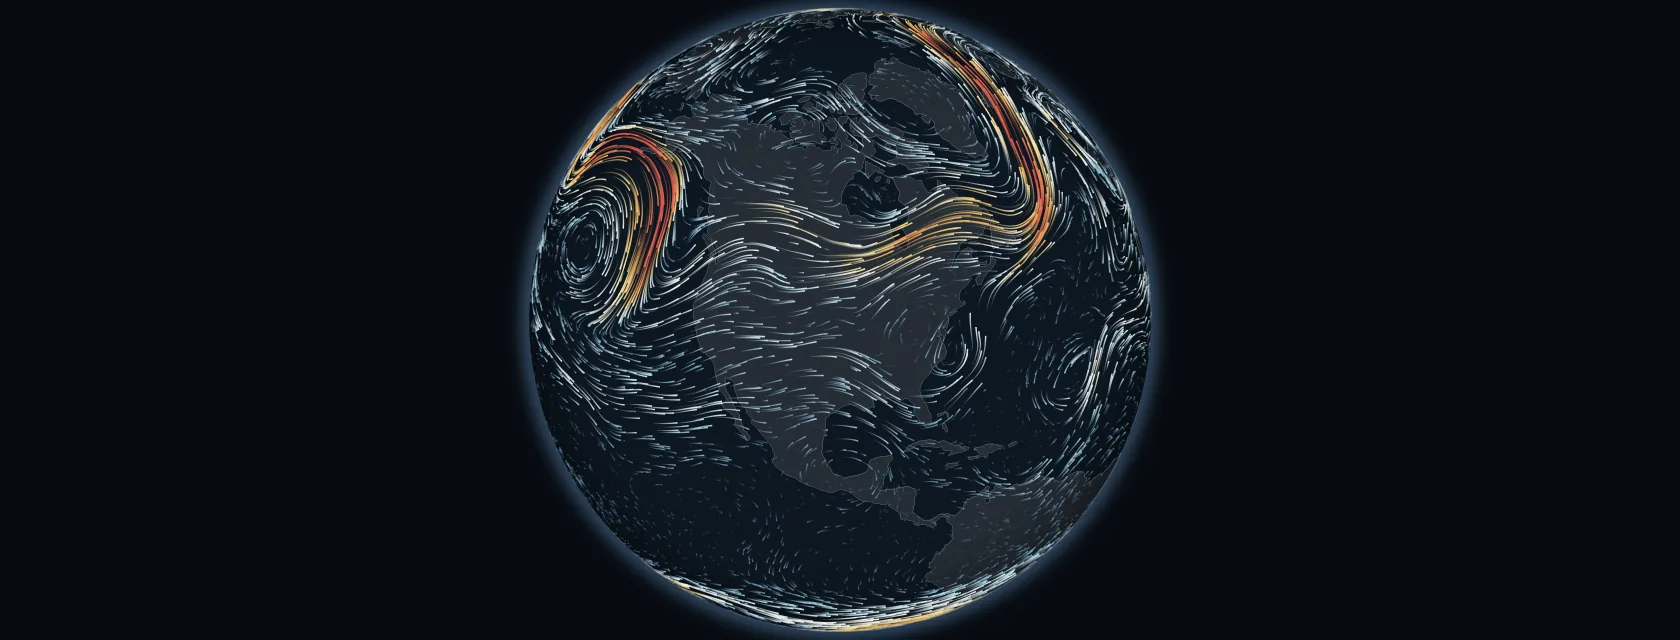
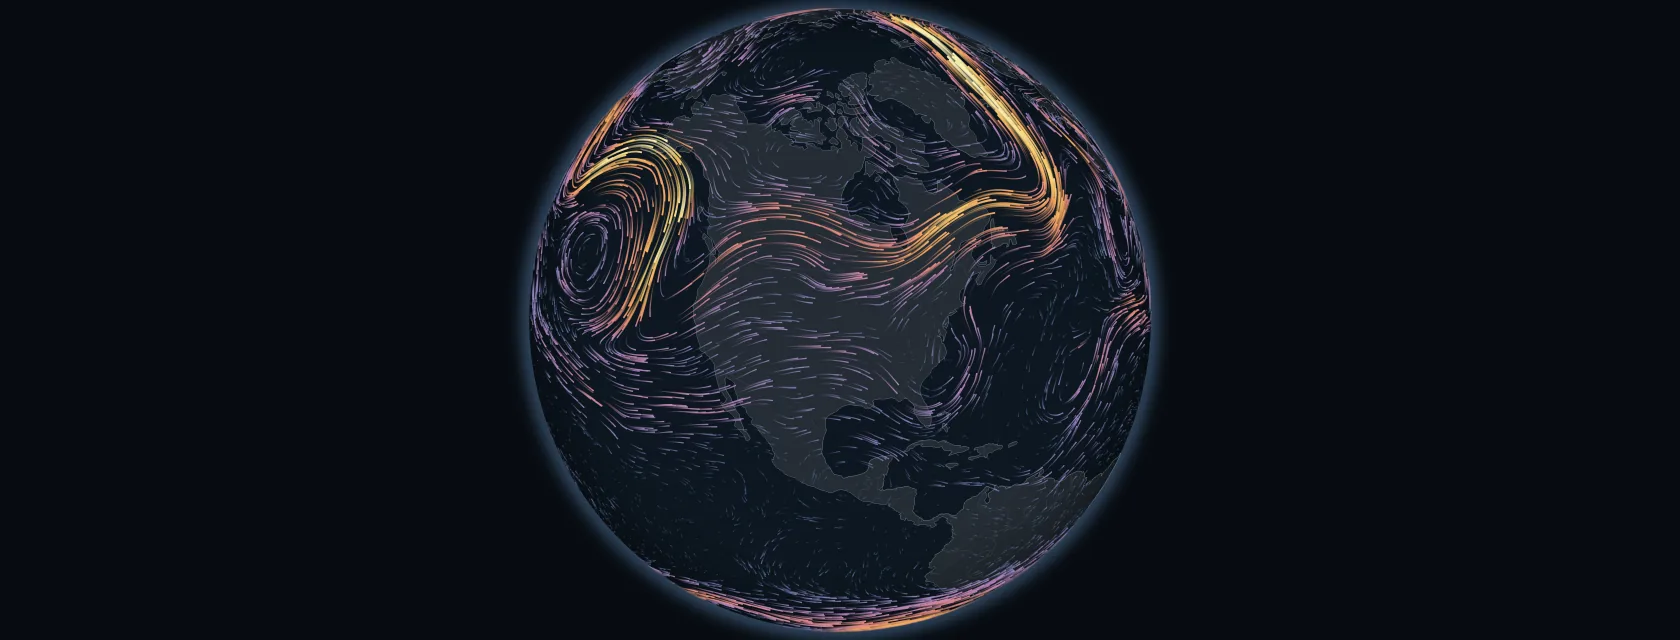
Refine Wind after an editorial design review
- Make the color scale rise in lightness with speed, dim blue through amber
  to pale yellow, so the fastest winds are the brightest marks; faster
  winds also draw heavier strokes
- Give each unit a round key (0-100+ km/h at the surface, 0-300+ in the jet
  stream) with tick marks, title it "Wind speed in km/h" with the unit as
  the toggle, and have the trail colors follow the scale shown
- Quiet the toolbar, use a reset arrow, fit the whole globe on phones
  between the title and a source line, and keep the globe clear of the
  toolbar on desktop
- Drop the bearing number from readings, keep a saved copy on screen if a
  later refresh fails, close About only from its backdrop, show a focus ring
  on the globe, and match accessible names to what is shown
- Name one source, the National Weather Service, and say "local time" for
  zones whose names would be an offset such as GMT+01:00

Changed region(s): [[0.3095, 0.0, 0.7119, 1.0], [0.3405, 0.75, 0.3714, 0.8125], [0.3714, 0.875, 0.4024, 0.9062]]

diff --git a/projects/wind/app.js b/projects/wind/app.js
@@ -56,7 +56,7 @@ function describe(wind, unit) {
   if (wind.speed < .3) return {speed, from: 'Calm', bearing: null};
   // Meteorological direction: where the wind comes from, clockwise from north.
   const bearing = (Math.atan2(-wind.u, -wind.v) * 180 / Math.PI + 360) % 360;
-  return {speed, from: `From the ${COMPASS[Math.round(bearing / 22.5) % 16]} · ${Math.round(bearing)}°`, bearing};
+  return {speed, from: `From the ${COMPASS[Math.round(bearing / 22.5) % 16]}`, bearing};
 }
 
 function coordinates([lon, lat]) {
@@ -277,8 +277,7 @@ async function start() {
   });
 
   // Landscape: the globe fills the height, beside the title or shifted right of
-  // it. Portrait: the whole disc sits between the title and the toolbar, a little
-  // above the middle of that space.
+  // it. Portrait: the whole disc is centered between the title and the source.
   const masthead = document.querySelector('.masthead'), toolbar = document.querySelector('.toolbar');
   const credit = document.querySelector('.credit');
   function layout() {
@@ -296,7 +295,7 @@ async function start() {
       else {
         const top = title.bottom + 16, band = floor - top;
         radius = Math.min(band / 2, width / 2 - 8);
-        y = top + radius + (band - 2 * radius) * .3;
+        y = top + band / 2;
       }
     }
     globe.setLayout({x, y, radius});

diff --git a/projects/wind/index.html b/projects/wind/index.html
@@ -72,8 +72,8 @@
   </button>
   <h2 id="about-title">About this map</h2>
   <p>Each line traces the wind’s path, sped up thousands of times so the motion is visible. Its color shows how fast the wind is blowing.</p>
-  <p>Surface winds are 10 meters above the ground. Jet stream winds are about 10 kilometers up.</p>
-  <p>The winds come from the Global Forecast System, the National Weather Service’s worldwide weather model, on a one‑degree grid (about 110 kilometers) prepared by earth.nullschool.net. It is a forecast that shows broad patterns, not a measurement, so local winds can differ.</p>
+  <p>The winds come from the Global Forecast System, the National Weather Service’s worldwide weather model, on a one‑degree grid (about 110 kilometers) prepared by earth.nullschool.net.</p>
+  <p>It is a forecast that shows broad patterns, not a measurement, so local winds can differ.</p>
   <dl class="times">
     <div><dt>Forecast for</dt><dd id="valid-time">—</dd></div>
     <div><dt>Forecast made</dt><dd id="model-run">—</dd></div>

diff --git a/projects/wind/globe-renderer.js b/projects/wind/globe-renderer.js
@@ -16,7 +16,9 @@ const MAX_VIEW_LAT = 86;
 const TRAILS_PER_PIXEL = 46;
 const STROKE = 1.5;           // trail width at its head, in CSS pixels
 const COLORS = {background: '#070b10', ocean: '#0d1721', ground: '#252d35', coast: '#7b8893', border: '#3e4952', rim: [.32, .47, .62]};
-export const PALETTE = ['#5b8fbe', '#89bedb', '#cbe7ef', '#f6f5ee', '#f8d47f', '#f59c58', '#e85d50'];
+// Lightness rises steadily with speed (CIE L* 53 to 95), so the fastest winds are
+// the brightest marks, and the calmest still read over ocean and land.
+export const PALETTE = ['#5582b2', '#8086c2', '#b483bb', '#e48a80', '#f5a561', '#facb6c', '#fdf2b5'];
 
 const shortest = degrees => ((degrees + 540) % 360) - 180;
 

diff --git a/projects/wind/styles.css b/projects/wind/styles.css
@@ -329,7 +329,6 @@ h1 {
   stroke-linejoin: round;
 }
 
-#pause svg.icon-play { fill: currentColor; stroke-width: 1.2; }
 #pause .icon-play, #pause[aria-pressed="true"] .icon-pause { display: none; }
 #pause[aria-pressed="true"] .icon-play { display: block; }
 
